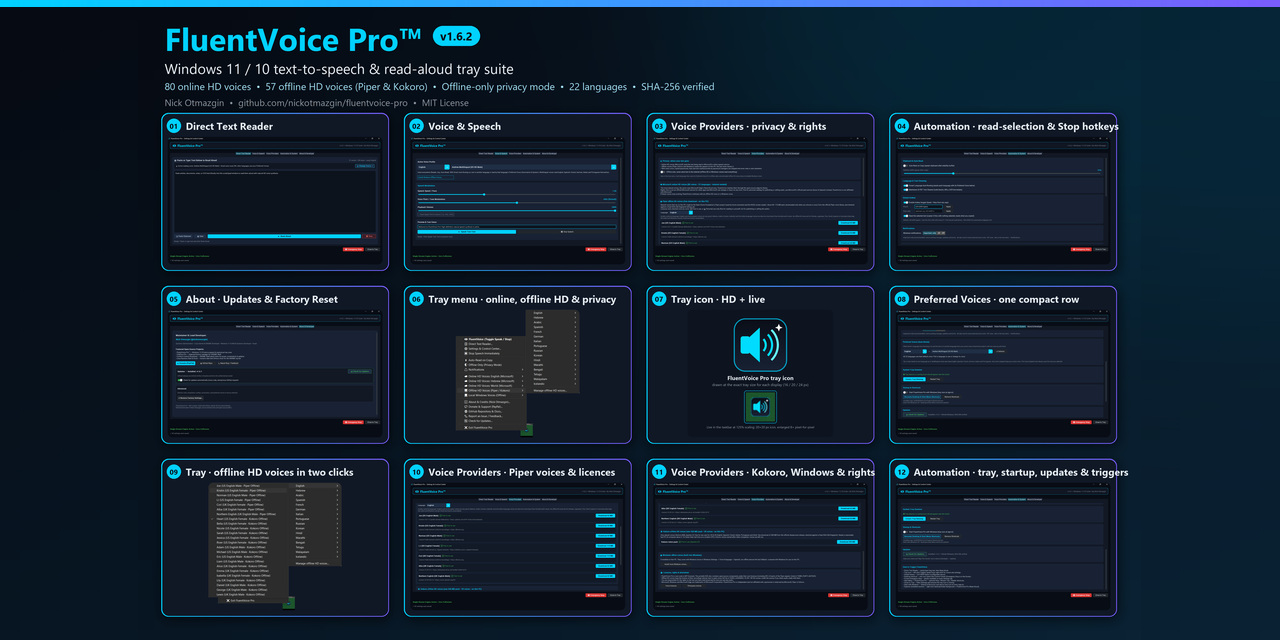
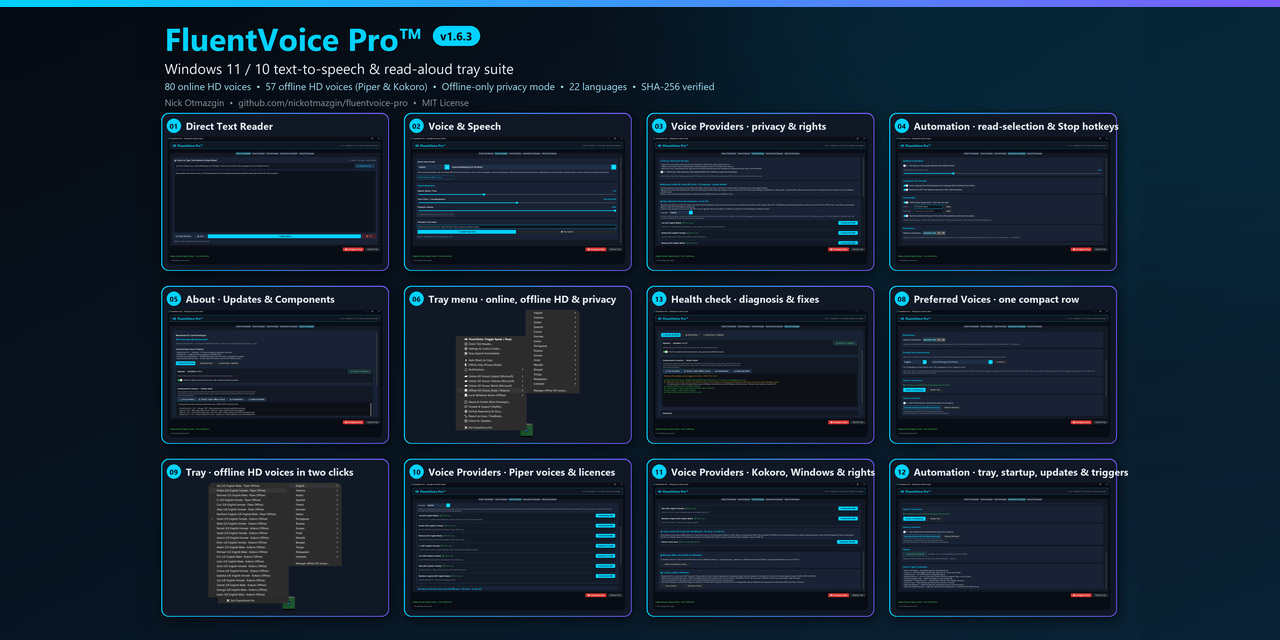
Release v1.6.3 (#65)

diff --git a/scripts/build_collage.py b/scripts/build_collage.py
@@ -1,7 +1,7 @@
 """Build the README collage + social images from screenshots/v<version>/.
 
 Usage:  python scripts/build_collage.py            (version read from fluentvoice/__init__.py)
-Writes: screenshots/v<ver>/collage-v<ver>.jpg          3840 wide  README hero (3 across, 01–12)
+Writes: screenshots/v<ver>/collage-v<ver>.jpg          3840 wide  README hero (3 across, the PANELS below)
         screenshots/v<ver>/social-collage-1080.jpg     1080x1080  social posts
         screenshots/v<ver>/social-preview-1280x640.jpg 1280x640   GitHub OG preview (the full collage, 4 across)
         + copies to screenshots/collage.jpg, screenshots/social-preview.jpg, .github/social-preview.{jpg,png}
@@ -28,9 +28,9 @@ PANELS = [  # (file, number, label) in reading order
     ("02-settings-voice.png", "02", "Voice & Speech"),
     ("03-settings-voice-providers.png", "03", "Voice Providers · privacy & rights"),
     ("04-settings-automation.png", "04", "Automation · read-selection & Stop hotkeys"),
-    ("05-settings-about-updates.png", "05", "About · Updates & Factory Reset"),
+    ("05-settings-about-updates.png", "05", "About · Updates & Components"),
     ("06-tray-menu.png", "06", "Tray menu · online, offline HD & privacy"),
-    ("07-tray-icon-closeup.png", "07", "Tray icon · HD + live"),
+    ("13-settings-health-check.png", "13", "Health check · diagnosis & fixes"),
     ("08-settings-automation-preferred.png", "08", "Preferred Voices · one compact row"),
     ("09-tray-offline-voices.png", "09", "Tray · offline HD voices in two clicks"),
     ("10-settings-voice-providers-mid.png", "10", "Voice Providers · Piper voices & licences"),
@@ -180,7 +180,7 @@ def main() -> None:
     q = gradient_bg(S, S)
     accent_bar(q, 8)
     top = header(q, 0.62, 40, 30, compact=True)
-    picks = [PANELS[2], PANELS[0], PANELS[5], PANELS[7]]  # 03 Voice Providers, 01 Reader, 06 tray, 08 Preferred
+    picks = [PANELS[2], PANELS[6], PANELS[5], PANELS[0]]  # 03 Voice Providers, 13 health check, 06 tray, 01 Reader
     m, gap = 36, 24
     pw, ph = (S - 2 * m - gap) // 2, (S - top - m - gap) // 2
     for i, (f, n, label) in enumerate(picks):

diff --git a/fluentvoice/gui.py b/fluentvoice/gui.py
@@ -1250,7 +1250,8 @@ class FluentVoiceSettingsWindow(ctk.CTk):
         ctk.CTkLabel(
             pref,
             text="Tip: a voice reads its own language as-is. Multilingual voices also keep English, "
-                 "Spanish, French, German, Italian and Portuguese. Very short snippets keep your "
+                 "Spanish, French, German, Italian and Portuguese. Languages without voices of their own "
+                 "(Dutch, Polish, Greek…) are read by a Multilingual voice. Very short snippets keep your "
                  "active voice. The Voice & Speech test always uses the voice you selected.",
             font=ctk.CTkFont(size=11),
             text_color="#8B949E",

diff --git a/fluentvoice/__init__.py b/fluentvoice/__init__.py
@@ -2,6 +2,6 @@
 Created by Nick Otmazgin
 """
 
-__version__ = "1.6.2"
+__version__ = "1.6.3"
 __author__ = "Nick Otmazgin"
 __license__ = "MIT"

diff --git a/README.md b/README.md
@@ -17,7 +17,7 @@
 
 Equipped with a **Windows 11 Fluent UI Settings & Control Center**, global single-stream playback locking (zero voice collisions), multi-engine neural voice synthesis, and automatic zero-latency offline fallback.
 
-> **Latest: v1.6.2** — when an online voice fails, the reading continues with a voice that can actually read the text (or FluentVoice says what to install) and returns to online when the service recovers; the **hotkey reads the selected text**, an optional **Stop hotkey**, a warning when another app owns your chord; the tray lists newly added Windows voices; offline HD voices start sooner. FluentVoice Pro is in the **[Microsoft Store](https://apps.microsoft.com/detail/9N293MJ0MD9F)** (free; updates and Start with Windows are handled by the Store and Windows). Still included since v1.5: **offline HD voices** (Piper & Kokoro, 57 voices in 16 languages, SHA-256 verified), the **Voice Providers** tab, **Offline only** privacy mode. Attested ZIPs + `SHA256SUMS.txt` on [Releases](https://github.com/nickotmazgin/fluentvoice-pro/releases); history in [CHANGELOG.md](CHANGELOG.md).
+> **Latest: v1.6.3** — the **Microsoft online voices work again**: when Microsoft's classic voice server refuses (the 2026 "403" outage that hit every edge-tts app), FluentVoice switches by itself to Microsoft's newer server for the same 80 voices. A new **health check** (About & Developer → Components & sources) tests every voice provider, the hotkeys and audio, and says what to do about anything wrong; **Verify / repair** re-checks downloaded offline voices against their SHA-256. Chinese / Japanese / Korean text with English names is detected correctly, and languages without voices of their own (Dutch, Polish, Greek…) are read by a Multilingual voice and shown by name. v1.6.2 added the read-selection hotkey, an optional Stop hotkey and voice fallback that returns to online. FluentVoice Pro is in the **[Microsoft Store](https://apps.microsoft.com/detail/9N293MJ0MD9F)** (free; updates and Start with Windows are handled by the Store and Windows). Still included since v1.5: **offline HD voices** (Piper & Kokoro, 57 voices in 16 languages, SHA-256 verified), the **Voice Providers** tab, **Offline only** privacy mode. Attested ZIPs + `SHA256SUMS.txt` on [Releases](https://github.com/nickotmazgin/fluentvoice-pro/releases); history in [CHANGELOG.md](CHANGELOG.md).
 
 > **Keywords:** Windows 11 Desktop App · System Tray Suite · Text to Speech · Read Aloud · Natural Voice Reader · Fluent Design · CustomTkinter · Edge TTS · SAPI OneCore · Clipboard Reader · Scratchpad · Multi-Language · Accessibility · Open Source
 
@@ -33,70 +33,84 @@ https://github.com/user-attachments/assets/69232ed1-b2f7-4aae-80f1-908521427841
 
 ## Screenshots
 
-*FluentVoice Pro **v1.6.2** — click any image to view it full size.*
+*FluentVoice Pro **v1.6.3** — click any image to view it full size.*
 
-[![FluentVoice Pro v1.6.2 collage](screenshots/v1.6.2/collage-v1.6.2.jpg)](screenshots/v1.6.2/collage-v1.6.2.jpg)
+[![FluentVoice Pro v1.6.3 collage](screenshots/v1.6.3/collage-v1.6.3.jpg)](screenshots/v1.6.3/collage-v1.6.3.jpg)
 
 <table>
   <tr>
     <td align="center">
-      <a href="screenshots/v1.6.2/01-settings-reader.png"><img src="screenshots/v1.6.2/01-settings-reader.png" width="260" alt="Direct Text Reader"></a><br>
+      <a href="screenshots/v1.6.3/01-settings-reader.png"><img src="screenshots/v1.6.3/01-settings-reader.png" width="260" alt="Direct Text Reader"></a><br>
       <b>01</b> — Direct Text Reader
     </td>
     <td align="center">
-      <a href="screenshots/v1.6.2/02-settings-voice.png"><img src="screenshots/v1.6.2/02-settings-voice.png" width="260" alt="Voice &amp; Speech"></a><br>
+      <a href="screenshots/v1.6.3/02-settings-voice.png"><img src="screenshots/v1.6.3/02-settings-voice.png" width="260" alt="Voice &amp; Speech"></a><br>
       <b>02</b> — Voice &amp; Speech
     </td>
     <td align="center">
-      <a href="screenshots/v1.6.2/03-settings-voice-providers.png"><img src="screenshots/v1.6.2/03-settings-voice-providers.png" width="260" alt="Voice Providers: privacy, rights &amp; offline HD voices"></a><br>
+      <a href="screenshots/v1.6.3/03-settings-voice-providers.png"><img src="screenshots/v1.6.3/03-settings-voice-providers.png" width="260" alt="Voice Providers: privacy, rights &amp; offline HD voices"></a><br>
       <b>03</b> — Voice Providers · privacy &amp; rights
     </td>
   </tr>
   <tr>
     <td align="center">
-      <a href="screenshots/v1.6.2/04-settings-automation.png"><img src="screenshots/v1.6.2/04-settings-automation.png" width="260" alt="Automation &amp; System: Global Hotkey reads the selection, optional Stop hotkey"></a><br>
+      <a href="screenshots/v1.6.3/04-settings-automation.png"><img src="screenshots/v1.6.3/04-settings-automation.png" width="260" alt="Automation &amp; System: Global Hotkey reads the selection, optional Stop hotkey"></a><br>
       <b>04</b> — Automation · read-selection &amp; Stop hotkeys
     </td>
     <td align="center">
-      <a href="screenshots/v1.6.2/05-settings-about-updates.png"><img src="screenshots/v1.6.2/05-settings-about-updates.png" width="260" alt="About, Updates &amp; Factory Reset"></a><br>
-      <b>05</b> — About · Updates &amp; Factory Reset
+      <a href="screenshots/v1.6.3/05-settings-about-updates.png"><img src="screenshots/v1.6.3/05-settings-about-updates.png" width="260" alt="About, Updates &amp; Factory Reset"></a><br>
+      <b>05</b> — About · Updates &amp; Components
     </td>
     <td align="center">
-      <a href="screenshots/v1.6.2/06-tray-menu.png"><img src="screenshots/v1.6.2/06-tray-menu.png" width="260" alt="Tray right-click menu"></a><br>
+      <a href="screenshots/v1.6.3/06-tray-menu.png"><img src="screenshots/v1.6.3/06-tray-menu.png" width="260" alt="Tray right-click menu"></a><br>
       <b>06</b> — Tray menu · online, offline HD &amp; privacy
     </td>
   </tr>
   <tr>
     <td align="center">
-      <a href="screenshots/v1.6.2/07-tray-icon-closeup.png"><img src="screenshots/v1.6.2/07-tray-icon-closeup.png" width="260" alt="Tray icon: HD and live in the taskbar"></a><br>
+      <a href="screenshots/v1.6.3/07-tray-icon-closeup.png"><img src="screenshots/v1.6.3/07-tray-icon-closeup.png" width="260" alt="Tray icon: HD and live in the taskbar"></a><br>
       <b>07</b> — Tray icon · HD + live
     </td>
     <td align="center">
-      <a href="screenshots/v1.6.2/08-settings-automation-preferred.png"><img src="screenshots/v1.6.2/08-settings-automation-preferred.png" width="260" alt="Preferred Voices: one compact row"></a><br>
+      <a href="screenshots/v1.6.3/08-settings-automation-preferred.png"><img src="screenshots/v1.6.3/08-settings-automation-preferred.png" width="260" alt="Preferred Voices: one compact row"></a><br>
       <b>08</b> — Preferred Voices · one compact row
     </td>
     <td align="center">
-      <a href="screenshots/v1.6.2/09-tray-offline-voices.png"><img src="screenshots/v1.6.2/09-tray-offline-voices.png" width="260" alt="Tray: downloaded offline HD voices by language"></a><br>
+      <a href="screenshots/v1.6.3/09-tray-offline-voices.png"><img src="screenshots/v1.6.3/09-tray-offline-voices.png" width="260" alt="Tray: downloaded offline HD voices by language"></a><br>
       <b>09</b> — Tray · offline HD voices (Piper &amp; Kokoro) in two clicks
     </td>
   </tr>
   <tr>
     <td align="center">
-      <a href="screenshots/v1.6.2/10-settings-voice-providers-mid.png"><img src="screenshots/v1.6.2/10-settings-voice-providers-mid.png" width="260" alt="Voice Providers: Piper voices, each with its licence"></a><br>
+      <a href="screenshots/v1.6.3/10-settings-voice-providers-mid.png"><img src="screenshots/v1.6.3/10-settings-voice-providers-mid.png" width="260" alt="Voice Providers: Piper voices, each with its licence"></a><br>
       <b>10</b> — Voice Providers · Piper voices &amp; licences
     </td>
     <td align="center">
-      <a href="screenshots/v1.6.2/11-settings-voice-providers-bottom.png"><img src="screenshots/v1.6.2/11-settings-voice-providers-bottom.png" width="260" alt="Voice Providers: Kokoro pack, Windows voices, licences and rights"></a><br>
+      <a href="screenshots/v1.6.3/11-settings-voice-providers-bottom.png"><img src="screenshots/v1.6.3/11-settings-voice-providers-bottom.png" width="260" alt="Voice Providers: Kokoro pack, Windows voices, licences and rights"></a><br>
       <b>11</b> — Voice Providers · Kokoro, Windows &amp; rights
     </td>
     <td align="center">
-      <a href="screenshots/v1.6.2/12-settings-automation-bottom.png"><img src="screenshots/v1.6.2/12-settings-automation-bottom.png" width="260" alt="Automation &amp; System: tray, startup, updates and how to trigger FluentVoice"></a><br>
+      <a href="screenshots/v1.6.3/12-settings-automation-bottom.png"><img src="screenshots/v1.6.3/12-settings-automation-bottom.png" width="260" alt="Automation &amp; System: tray, startup, updates and how to trigger FluentVoice"></a><br>
       <b>12</b> — Automation · tray, startup, updates &amp; triggers
+    </td>
+  </tr>
+  <tr>
+    <td align="center">
+      <a href="screenshots/v1.6.3/13-settings-health-check.png"><img src="screenshots/v1.6.3/13-settings-health-check.png" width="260" alt="Health check: Test providers with diagnosis and fixes"></a><br>
+      <b>13</b> — Health check · diagnosis &amp; fixes
+    </td>
+    <td align="center">
+      <a href="screenshots/v1.6.3/14-reader-other-language.png"><img src="screenshots/v1.6.3/14-reader-other-language.png" width="260" alt="Direct Text Reader: Dutch text read by a Multilingual voice"></a><br>
+      <b>14</b> — Any language · Dutch read by a Multilingual voice
+    </td>
+    <td align="center">
+      <a href="screenshots/v1.6.3/15-settings-about-bottom.png"><img src="screenshots/v1.6.3/15-settings-about-bottom.png" width="260" alt="About &amp; Developer, bottom: components with versions, licences and sources, factory reset"></a><br>
+      <b>15</b> — About · components, licences &amp; sources
     </td>
   </tr>
 </table>
 
-Full combined image (download): [collage-v1.6.2.jpg](screenshots/v1.6.2/collage-v1.6.2.jpg)
+Full combined image (download): [collage-v1.6.3.jpg](screenshots/v1.6.3/collage-v1.6.3.jpg)
 
 ---
 

diff --git a/docs/SCREENSHOTS.md b/docs/SCREENSHOTS.md
@@ -1,38 +1,46 @@
-# Screenshots (v1.6.2)
+# Screenshots (v1.6.3)
 
-HD captures for the README, the GitHub social preview, and social posts. In v1.6.2 only 04 was
-recaptured (the Global Hotkey card gained the Stop-only chord and the read-selection switch); the
-other panels are the v1.6.1 captures.
+HD captures for the README, the GitHub social preview, and social posts. In v1.6.3 every Settings
+screen was recaptured (the header shows the version; 08's tip mentions Multilingual reading of other
+languages) and 13–15 are new: the health check, a Dutch text in the Reader, and the bottom of About
+& Developer. The tray captures 06, 07 and 09 are unchanged from v1.6.1.
 
 ## Repo paths
 
 | File | Purpose |
 |------|---------|
-| `screenshots/v1.6.2/collage-v1.6.2.jpg` | README hero collage (3840 wide, 3 across: 01–12) |
-| `screenshots/v1.6.2/social-preview-1280x640.jpg` | GitHub OG / link preview: the full collage, 4 across (also `.github/social-preview.{jpg,png}`) |
-| `screenshots/v1.6.2/social-collage-1080.jpg` | Square social post |
-| `screenshots/v1.6.2/01-settings-reader.png` | 01 Direct Text Reader |
-| `screenshots/v1.6.2/02-settings-voice.png` | 02 Voice & Speech |
-| `screenshots/v1.6.2/03-settings-voice-providers.png` | 03 Voice Providers: privacy, rights, Piper / Kokoro downloads |
-| `screenshots/v1.6.2/04-settings-automation.png` | 04 Automation & System (Auto-Read, language, Global Hotkey with Stop-only chord and read-selection switch, notifications) |
-| `screenshots/v1.6.2/05-settings-about-updates.png` | 05 About · Updates & Factory Reset |
-| `screenshots/v1.6.2/06-tray-menu.png` | 06 Tray right-click menu (Offline HD Voices submenu open, languages of the downloaded voices) |
-| `screenshots/v1.6.2/07-tray-icon-closeup.png` | 07 Tray icon: HD (drawn by the tray code) + live 20 px capture from the taskbar |
-| `screenshots/v1.6.2/08-settings-automation-preferred.png` | 08 Automation scrolled to Preferred Voices (one Language ▸ Voice row), tray, startup, updates |
-| `screenshots/v1.6.2/10-settings-voice-providers-mid.png` | 10 Voice Providers, middle: Piper voices, each with its licence |
-| `screenshots/v1.6.2/11-settings-voice-providers-bottom.png` | 11 Voice Providers, bottom: Kokoro pack, Windows voices, licences & rights |
-| `screenshots/v1.6.2/12-settings-automation-bottom.png` | 12 Automation & System, bottom: tray, startup & shortcuts, updates, how to trigger FluentVoice |
-| `screenshots/v1.6.2/09-tray-offline-voices.png` | 09 Tray → Offline HD Voices → English: the downloaded Piper / Kokoro voices (README only, not in the collage) |
+| `screenshots/v1.6.3/collage-v1.6.3.jpg` | README hero collage (3840 wide, 3 across: 01–06, 13, 08–12) |
+| `screenshots/v1.6.3/social-preview-1280x640.jpg` | GitHub OG / link preview: the full collage, 4 across (also `.github/social-preview.{jpg,png}`) |
+| `screenshots/v1.6.3/social-collage-1080.jpg` | Square social post (03, 13, 06, 01) |
+| `screenshots/v1.6.3/01-settings-reader.png` | 01 Direct Text Reader |
+| `screenshots/v1.6.3/02-settings-voice.png` | 02 Voice & Speech |
+| `screenshots/v1.6.3/03-settings-voice-providers.png` | 03 Voice Providers: privacy, rights, Piper / Kokoro downloads |
+| `screenshots/v1.6.3/04-settings-automation.png` | 04 Automation & System (Auto-Read, language, Global Hotkey with Stop-only chord and read-selection switch, notifications) |
+| `screenshots/v1.6.3/05-settings-about-updates.png` | 05 About · Updates and the start of Components & sources |
+| `screenshots/v1.6.3/06-tray-menu.png` | 06 Tray right-click menu (Offline HD Voices submenu open, languages of the downloaded voices) |
+| `screenshots/v1.6.3/07-tray-icon-closeup.png` | 07 Tray icon: HD (drawn by the tray code) + live 20 px capture from the taskbar (README only) |
+| `screenshots/v1.6.3/08-settings-automation-preferred.png` | 08 Automation scrolled to Preferred Voices (one Language ▸ Voice row), tray, startup |
+| `screenshots/v1.6.3/09-tray-offline-voices.png` | 09 Tray → Offline HD Voices → English: the downloaded Piper / Kokoro voices |
+| `screenshots/v1.6.3/10-settings-voice-providers-mid.png` | 10 Voice Providers, middle: Piper voices, each with its licence |
+| `screenshots/v1.6.3/11-settings-voice-providers-bottom.png` | 11 Voice Providers, bottom: Kokoro pack, Windows voices, licences & rights |
+| `screenshots/v1.6.3/12-settings-automation-bottom.png` | 12 Automation & System, bottom: tray, startup & shortcuts, updates, how to trigger FluentVoice |
+| `screenshots/v1.6.3/13-settings-health-check.png` | 13 About → Components & sources after **Test providers**: diagnosis and fixes |
+| `screenshots/v1.6.3/14-reader-other-language.png` | 14 Reader with Dutch text: "Lang: Dutch (Multilingual voice)" (README only) |
+| `screenshots/v1.6.3/15-settings-about-bottom.png` | 15 About, bottom: component versions, licences and sources, Advanced (factory reset) (README only) |
 
 ## Recapture + rebuild
 
 ```powershell
 python scripts\capture_settings.py   # 01–05, 10–12 (maximized Settings tabs, temporary profile)
+python scripts\capture_settings.py --at screenshots\v<ver>\08-settings-automation-preferred.png "Automation & System" 0.6
+python scripts\capture_settings.py --at screenshots\v<ver>\15-settings-about-bottom.png "About & Developer" 1.0
 python scripts\build_collage.py      # collage + social images
 ```
 
-06 and 13 (tray menu, captured with a tray running on a temporary profile that has offline voices), 07 (tray icon), 08 (Automation scrolled to Preferred Voices) and 09 (portable
-first-launch prompt) are captured by hand into the same folder with the names above.
+13 (About scrolled to 0.6, Test providers pressed, report shown after ~12 s) and 14 (Dutch text pasted
+into the Reader) are taken the same way with a temporary profile. 06 and 09 (tray menu, captured with a
+tray running on a temporary profile that has offline voices) and 07 (tray icon) are captured by hand
+into the same folder with the names above.
 
 The version is read from `fluentvoice/__init__.py`. The GitHub social preview image must be uploaded
 by hand under **Settings → General → Social preview** (GitHub has no API for it).

diff --git a/CHANGELOG.md b/CHANGELOG.md
@@ -9,6 +9,8 @@ and this project adheres to [Semantic Versioning](https://semver.org/spec/v2.0.0
 
 ## [Unreleased]
 
+## [1.6.3] - 2026-10-12
+
 ### Fixed
 - **The Microsoft online voices work again.** In 2026 Microsoft's classic voice server started refusing connections (HTTP 403) for many users, for every app built on edge-tts ([edge-tts #490](https://github.com/rany2/edge-tts/issues/490)), and FluentVoice fell back to offline voices. When the classic server refuses, FluentVoice now switches by itself to Microsoft's newer server for the same voices (`api.msedgeservices.com`) and keeps using it for the session. All 80 online voices were tested on it.
 - **Chinese, Japanese and Korean text with English names is detected correctly.** A product name like "FluentVoice Pro" in a Chinese sentence made it count as English, because one Chinese character was weighed like one Latin letter; each CJK character now counts like a short word. A test checks that every language's sample sentence is detected as that language.
